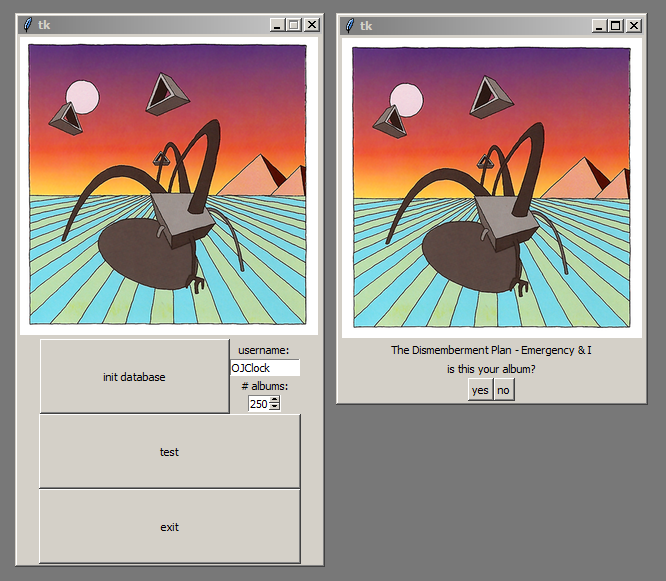
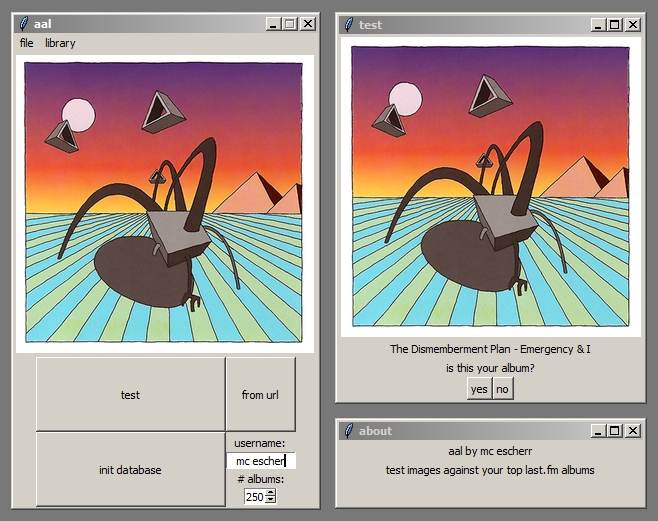
fix & new preview

diff --git a/aa.py b/aa.py
@@ -489,6 +489,7 @@ class TestResults:
 		first_album_art = self.aa.library[self.guess].get_img('xl')
 		# tk stuff
 		self.top = tk.Toplevel()
+		self.top.title('test')
 		img = ImageTk.PhotoImage(Image.open(first_album_art))
 		self.img_label = tk.Label(self.top,image=img)
 		self.img_label.image = img
@@ -535,6 +536,7 @@ class AlbumSearch:
 
 		# tk
 		self.top = tk.Toplevel()
+		self.top.title('search')
 		self.search_query = tk.StringVar()
 		self.entry_frame = tk.Frame(self.top)
 		self.search_field = tk.Entry(self.entry_frame,textvariable=self.search_query)
